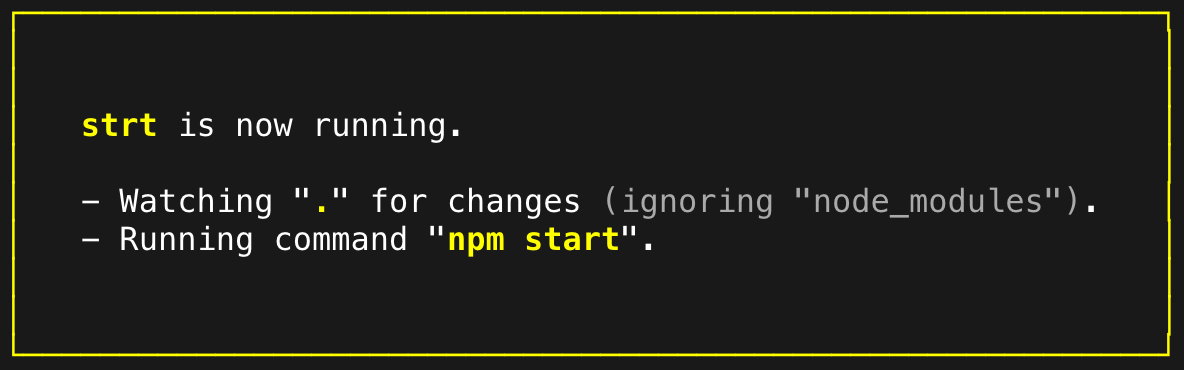
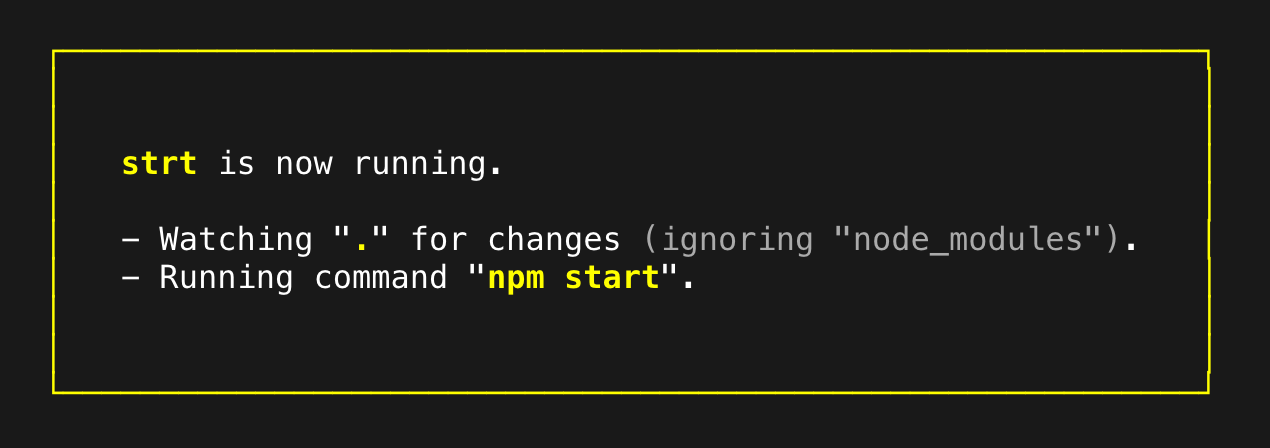
resize image to 50%

Changed region(s): [[0.0312, 0.0892, 1.0, 0.8919], [0.0, 0.9514, 1.0, 0.9811], [0.0, 0.0297, 1.0, 0.0595]]

diff --git a/readme.md b/readme.md
@@ -2,7 +2,7 @@
 
 A file watching application restarter for your `npm start` command.
 
-<a href="https://npmjs.com/strt"><img src="https://raw.githubusercontent.com/chrisdwheatley/strt/test-image-readme/images/strt-init.png"></a>
+<a href="https://npmjs.com/strt"><img src="https://raw.githubusercontent.com/chrisdwheatley/strt/master/images/strt-init.png" width="50%"></a>
 
 ## Features
 
